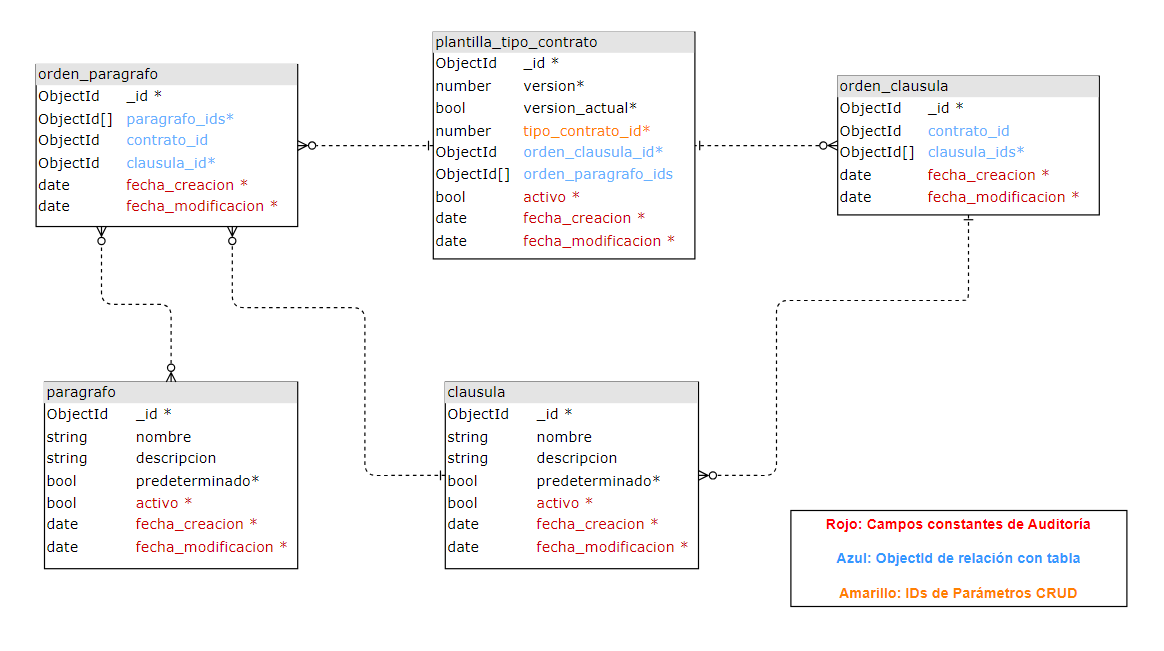
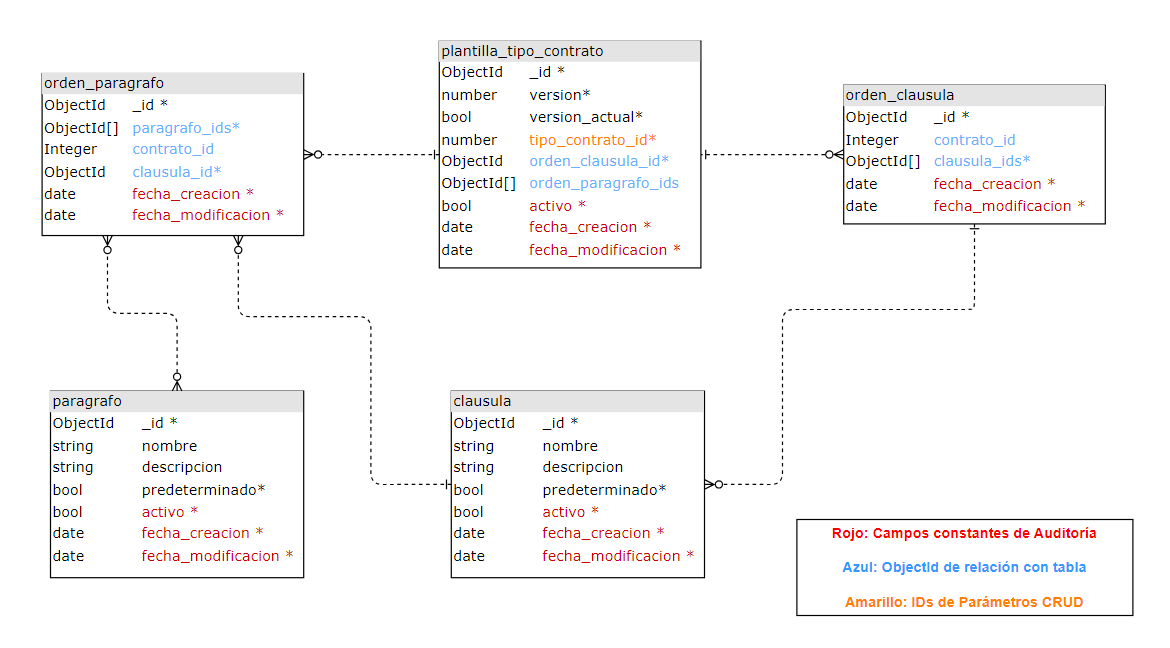
feat: Ajustes tipo contrato id udistrital/argo_documentacion#148

diff --git a/src/orden_paragrafo/orden_paragrafo.service.spec.ts b/src/orden_paragrafo/orden_paragrafo.service.spec.ts
@@ -15,7 +15,7 @@ describe('OrdenParagrafoService', () => {
   const mockOrdenParagrafo = {
     _id: new Types.ObjectId().toHexString(),
     paragrafo_ids: [new Types.ObjectId().toHexString(), new Types.ObjectId().toHexString()],
-    contrato_id: new Types.ObjectId().toHexString(),
+    contrato_id: 12345,
     clausula_id: new Types.ObjectId().toHexString(),
     fecha_creacion: new Date(),
     fecha_modificacion: new Date(),
@@ -23,7 +23,7 @@ describe('OrdenParagrafoService', () => {
 
   const mockCreateDto: CreateOrdenParagrafoDto = {
     paragrafo_ids: [new Types.ObjectId().toHexString(), new Types.ObjectId().toHexString()],
-    contrato_id: new Types.ObjectId().toHexString(),
+    contrato_id: 12345,
     clausula_id: new Types.ObjectId().toHexString(),
     fecha_creacion: new Date(),
     fecha_modificacion: new Date(),

diff --git a/src/orden_paragrafo/dto/create-orden_paragrafo.dto.ts b/src/orden_paragrafo/dto/create-orden_paragrafo.dto.ts
@@ -1,5 +1,5 @@
 import { ApiProperty } from '@nestjs/swagger';
-import { IsNotEmpty, IsString, IsDate, IsArray } from 'class-validator';
+import { IsNotEmpty, IsString, IsDate, IsArray, IsNumber } from 'class-validator';
 import { Type } from 'class-transformer';
 
 export class CreateOrdenParagrafoDto {
@@ -9,10 +9,10 @@ export class CreateOrdenParagrafoDto {
     @IsString({ each: true })
     paragrafo_ids: string[];
 
-    @ApiProperty({ type: String, description: 'Contrato ID' })
+    @ApiProperty({ type: Number, description: 'Contrato ID' })
     @IsNotEmpty()
-    @IsString()
-    contrato_id: string;
+    @IsNumber()
+    contrato_id: number;
 
     @ApiProperty({ type: String, description: 'Clausula ID' })
     @IsNotEmpty()

diff --git a/src/orden_clausula/dto/create-orden_clausula.dto.ts b/src/orden_clausula/dto/create-orden_clausula.dto.ts
@@ -1,5 +1,5 @@
 import { ApiProperty } from '@nestjs/swagger';
-import {IsNotEmpty,IsString,IsDate, IsArray,} from 'class-validator';
+import { IsNotEmpty, IsString, IsDate, IsArray, IsNumber, } from 'class-validator';
 import { Type } from 'class-transformer';
 
 export class CreateOrdenClausulaDto {
@@ -10,10 +10,10 @@ export class CreateOrdenClausulaDto {
     @IsString({ each: true })
     clausula_ids: string[];
 
-    @ApiProperty({ type: String, description: 'Contrato ID' })
+    @ApiProperty({ type: Number, description: 'Contrato ID' })
     @IsNotEmpty()
-    @IsString()
-    contrato_id: string;
+    @IsNumber()
+    contrato_id: number;
 
     @ApiProperty()
     @IsDate()

diff --git a/src/orden_clausula/orden_clausula.service.spec.ts b/src/orden_clausula/orden_clausula.service.spec.ts
@@ -15,14 +15,14 @@ describe('OrdenClausulaService', () => {
   const mockOrdenClausula = {
     _id: new Types.ObjectId().toHexString(),
     clausula_ids: [new Types.ObjectId().toHexString(), new Types.ObjectId().toHexString()],
-    contrato_id: new Types.ObjectId().toHexString(),
+    contrato_id: 12345,
     fecha_creacion: new Date(),
     fecha_modificacion: new Date(),
   };
 
   const mockCreateDto: CreateOrdenClausulaDto = {
     clausula_ids: [new Types.ObjectId().toHexString(), new Types.ObjectId().toHexString()],
-    contrato_id: new Types.ObjectId().toHexString(),
+    contrato_id: 12345,
     fecha_creacion: new Date(),
     fecha_modificacion: new Date(),
   };

diff --git a/src/orden_paragrafo/orden_paragrafo.controller.spec.ts b/src/orden_paragrafo/orden_paragrafo.controller.spec.ts
@@ -13,7 +13,7 @@ describe('OrdenParagrafoController', () => {
   const mockOrdenParagrafo = {
     _id: 'mock_id',
     paragrafo_ids: ['paragrafo1', 'paragrafo2'],
-    contrato_id: 'contrato1',
+    contrato_id: 12345,
     clausula_id: 'clausula1',
     fecha_creacion: new Date(),
     fecha_modificacion: new Date(),
@@ -26,7 +26,7 @@ describe('OrdenParagrafoController', () => {
 
   const mockCreateDto: CreateOrdenParagrafoDto = {
     paragrafo_ids: ['paragrafo1', 'paragrafo2'],
-    contrato_id: 'contrato1',
+    contrato_id: 12345,
     clausula_id: 'clausula1',
     fecha_creacion: new Date(),
     fecha_modificacion: new Date(),

diff --git a/src/orden_clausula/orden_clausula.controller.spec.ts b/src/orden_clausula/orden_clausula.controller.spec.ts
@@ -13,7 +13,7 @@ describe('OrdenClausulaController', () => {
   const mockOrdenClausula = {
     _id: 'mock_id',
     clausula_ids: ['clausula1', 'clausula2'],
-    contrato_id: 'contrato1',
+    contrato_id: 12345,
     fecha_creacion: new Date(),
     fecha_modificacion: new Date(),
 
@@ -25,7 +25,7 @@ describe('OrdenClausulaController', () => {
 
   const mockCreateDto: CreateOrdenClausulaDto = {
     clausula_ids: ['clausula1', 'clausula2'],
-    contrato_id: 'contrato1',
+    contrato_id: 12345,
     fecha_creacion: new Date(),
     fecha_modificacion: new Date(),
   };

diff --git a/src/orden_paragrafo/orden_paragrafo.service.ts b/src/orden_paragrafo/orden_paragrafo.service.ts
@@ -18,8 +18,8 @@ export class OrdenParagrafoService {
     const ordenParagrafoData = {
       ...ordenParagrafoDto,
       paragrafo_ids: ordenParagrafoDto.paragrafo_ids.map(id => new Types.ObjectId(id)),
-      contrato_id: new Types.ObjectId(ordenParagrafoDto.contrato_id),
       clausula_id: new Types.ObjectId(ordenParagrafoDto.clausula_id),
+      contrato_id: ordenParagrafoDto.contrato_id
     };
     return await this.ordenParagrafoModel.create(ordenParagrafoData);
   }

diff --git a/src/orden_clausula/orden_clausula.service.ts b/src/orden_clausula/orden_clausula.service.ts
@@ -18,7 +18,7 @@ export class OrdenClausulaService {
     const ordenClausulaData = {
       ...ordenClausulaDto,
       clausula_ids: ordenClausulaDto.clausula_ids.map(id => new Types.ObjectId(id)),
-      contrato_id: new Types.ObjectId(ordenClausulaDto.contrato_id),
+      contrato_id: ordenClausulaDto.contrato_id,
     };
     return await this.ordenClausulaModel.create(ordenClausulaData);
   }

diff --git a/src/orden_clausula/schemas/orden_clausula.schema.ts b/src/orden_clausula/schemas/orden_clausula.schema.ts
@@ -8,10 +8,10 @@ export class OrdenClausula extends Document {
     clausula_ids: mongoose.Types.ObjectId[];
 
     @Prop({
-        type: mongoose.Schema.Types.ObjectId,
+        type: Number,
         ref: 'contrato_id',
     })
-    contrato_id: mongoose.Types.ObjectId;
+    contrato_id: number;
 
     @Prop({required: true, default: Date.now})
     fecha_creacion: Date

diff --git a/src/orden_paragrafo/schemas/orden_paragrafo.schema.ts b/src/orden_paragrafo/schemas/orden_paragrafo.schema.ts
@@ -8,10 +8,10 @@ export class OrdenParagrafo extends Document {
     paragrafo_ids: mongoose.Types.ObjectId[];
 
     @Prop({
-        type: mongoose.Schema.Types.ObjectId,
+        type: Number,
         ref: 'contrato_id',
     })
-    contrato_id: mongoose.Types.ObjectId;
+    contrato_id: number;
 
     @Prop({
         type: mongoose.Schema.Types.ObjectId,

diff --git a/README.md b/README.md
@@ -61,6 +61,7 @@ npm test
 # Modelo de Datos
 
 ![Modelo de datos Formularios dinámicos](/database/Modelo%20de%20datos%20Clausulas%20y%20Paragrafos.png)
+![Archivo de modelo de datos](/database/modelo-datos-no-relacional-clausulas-paragrafos.drawio)
 
 # Licencia
 
